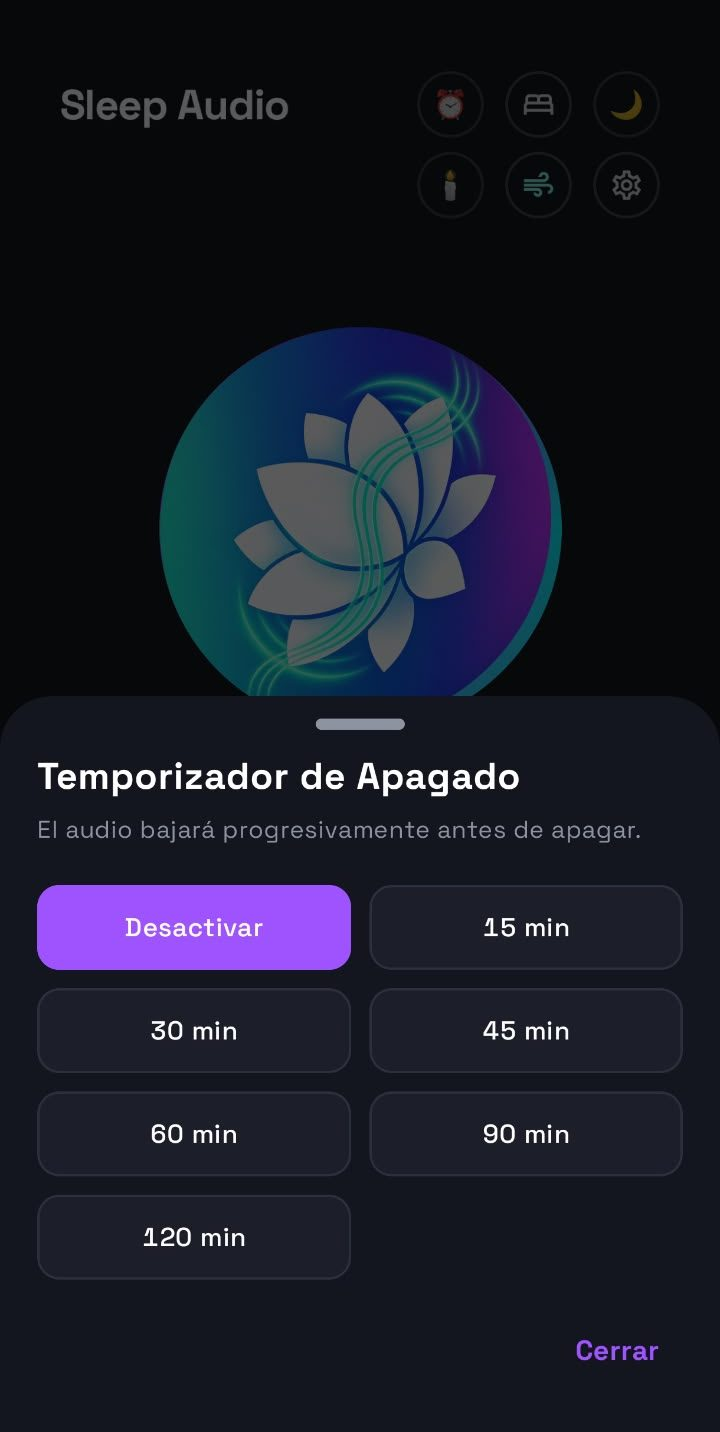
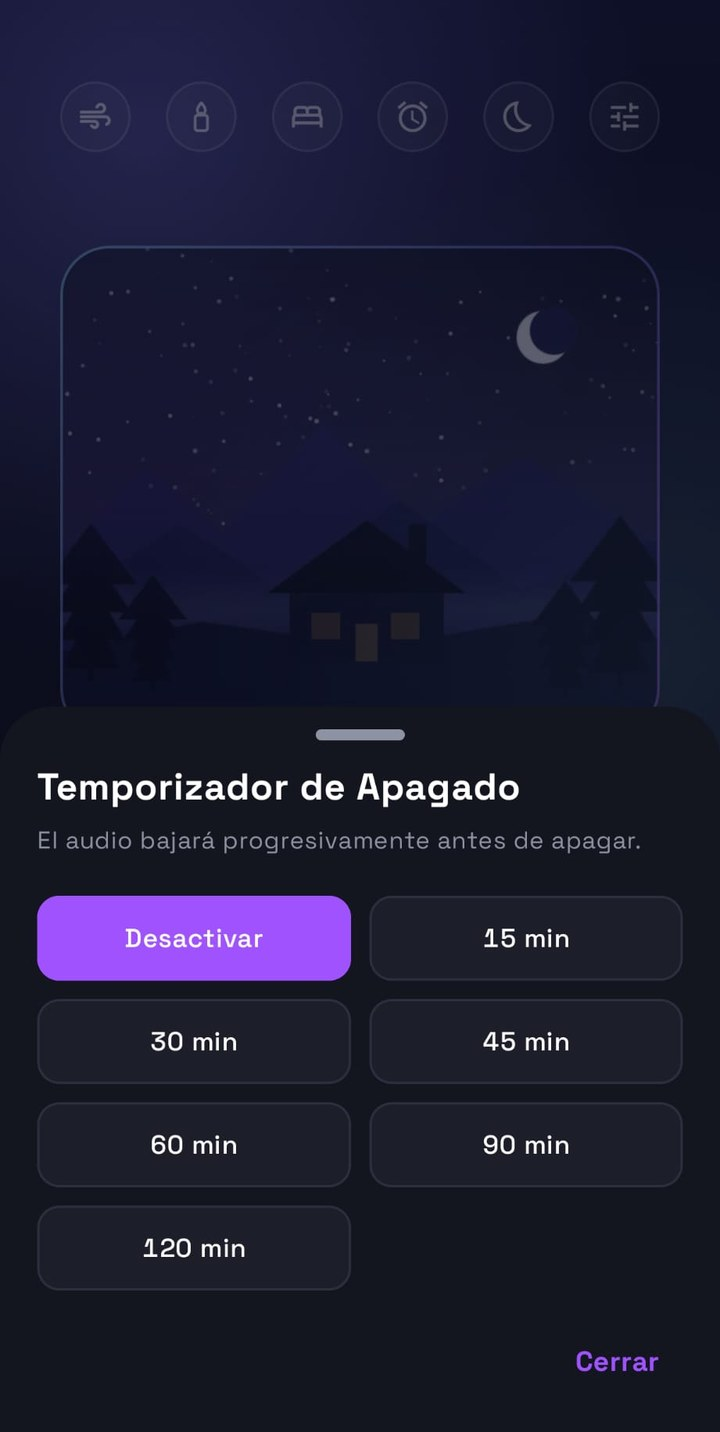
- Reproductor del inicio: la flor de loto se sustituye por la escena animada "Noche en la cabaña" (quieta en pausa, se anima al sonar una muestra) - script.js: nueva sección 15 con la animación (se para fuera de pantalla y con "reducir movimiento") - styles.css: estilos del lienzo de la escena - Gal

diff --git a/script.js b/script.js
@@ -598,4 +598,171 @@
       espera = setTimeout(() => { img.src = original; el.classList.remove("salta"); }, 1400);
     });
   });
+  /* ---------- 15. Reproductor del inicio: escena "Noche en la cabaña" ---------- */
+  // Igual que en la app: en pausa la escena queda quieta; al sonar una muestra cobra vida
+  // (humo, lluvia, luciérnagas y estrellas). Se dibuja en un espacio fijo de 568×464
+  // y se escala para llenar el recuadro sin deformarse.
+  const lienzo = document.querySelector("[data-escena-cabana]");
+  const tarjetaEscena = document.querySelector("[data-reproductor]");
+  if (lienzo && lienzo.getContext) {
+    const x = lienzo.getContext("2d");
+    const W = 568, H = 464, TAU = Math.PI * 2;
+    const reducir = window.matchMedia("(prefers-reduced-motion: reduce)").matches;
+    const azar = Math.random;
+
+    const estrellas = [], lluvia = [], luciernagas = [];
+    let humo = [];
+    for (let i = 0; i < 110; i++) estrellas.push({ x: azar() * W, y: azar() * H * 0.6, r: azar() * 1.8 + 0.4, p: azar() * TAU });
+    for (let i = 0; i < 120; i++) lluvia.push({ x: azar() * W, y: azar() * H, s: 6 + azar() * 6 });
+    for (let i = 0; i < 14; i++) luciernagas.push({ x: azar() * W, y: H * 0.62 + azar() * H * 0.3, p: azar() * TAU });
+
+    const cx = 290, cy = 386;   // posición de la cabaña
+
+    function poligono(puntos, color) {
+      x.fillStyle = color; x.beginPath(); x.moveTo(puntos[0][0], puntos[0][1]);
+      for (let k = 1; k < puntos.length; k++) x.lineTo(puntos[k][0], puntos[k][1]);
+      x.closePath(); x.fill();
+    }
+    function pino(px, py, s, color) {
+      x.fillStyle = color;
+      for (let k = 0; k < 4; k++) {
+        x.beginPath();
+        x.moveTo(px, py - s * (1.2 + k * 0.55));
+        x.lineTo(px - s * (0.55 + k * 0.12), py - s * k * 0.55);
+        x.lineTo(px + s * (0.55 + k * 0.12), py - s * k * 0.55);
+        x.closePath(); x.fill();
+      }
+      x.fillRect(px - s * 0.06, py, s * 0.12, s * 0.25);
+    }
+    function niebla(y, t, alfa) {
+      const g = x.createLinearGradient(0, y, 0, y + 80);
+      g.addColorStop(0, "rgba(180,190,255,0)");
+      g.addColorStop(0.5, "rgba(180,190,255," + alfa + ")");
+      g.addColorStop(1, "rgba(180,190,255,0)");
+      x.fillStyle = g; x.fillRect((t / 60) % 80 - 80, y, W + 160, 80);
+    }
+    function brillo(gx, gy, radio, alfa) {
+      const g = x.createRadialGradient(gx, gy, 2, gx, gy, radio);
+      g.addColorStop(0, "rgba(255,170,70," + alfa + ")");
+      g.addColorStop(1, "rgba(255,170,70,0)");
+      x.fillStyle = g; x.fillRect(gx - radio, gy - radio, radio * 2, radio * 2);
+    }
+    // El humo nace sobre la chimenea, sube, se ensancha y se desvanece
+    function moverHumo() {
+      if (azar() < 0.12) humo.push({ x: cx + 46, y: cy - 126, a: 0.35, r: 5 });
+      humo.forEach((s) => { s.y -= 0.5; s.x += 0.25; s.r += 0.06; s.a -= 0.002; });
+      humo = humo.filter((s) => s.a > 0);
+    }
+    for (let i = 0; i < 260; i++) moverHumo();   // para que en pausa ya se vea la columna de humo
+
+    function dibujar(t, vivo) {
+      const parpadeo = vivo ? 0.82 + 0.18 * Math.sin(t / 130) * Math.sin(t / 77) : 0.9;
+
+      const cielo = x.createLinearGradient(0, 0, 0, H);
+      cielo.addColorStop(0, "#101329"); cielo.addColorStop(0.5, "#292454"); cielo.addColorStop(1, "#5a3b6e");
+      x.fillStyle = cielo; x.fillRect(0, 0, W, H);
+
+      estrellas.forEach((s) => {
+        x.globalAlpha = 0.25 + 0.24 * Math.sin(t / 900 + s.p);
+        x.fillStyle = "#fff"; x.beginPath(); x.arc(s.x, s.y, s.r, 0, TAU); x.fill();
+      });
+      x.globalAlpha = 1;
+
+      // Luna creciente
+      x.fillStyle = "#f3f1ff"; x.beginPath(); x.arc(450, 92, 24, 0, TAU); x.fill();
+      x.fillStyle = "#1d1b4d"; x.beginPath(); x.arc(460, 86, 22, 0, TAU); x.fill();
+
+      // Montañas, niebla y colina
+      poligono([[0,300],[90,210],[160,270],[250,170],[340,260],[430,200],[568,290],[568,464],[0,464]], "#232063");
+      poligono([[0,340],[120,262],[210,318],[320,240],[430,320],[568,270],[568,464],[0,464]], "#1a1a52");
+      niebla(300, t, 0.16);
+      poligono([[0,380],[140,350],[300,372],[460,346],[568,368],[568,464],[0,464]], "#111437");
+
+      // Pinos
+      pino(40, 392, 46, "#0b0d26"); pino(96, 404, 34, "#0c0e29");
+      pino(520, 396, 50, "#0b0d26"); pino(470, 410, 34, "#0c0e29");
+
+      // Cabaña: muros, tejado y chimenea
+      x.fillStyle = "#0f1030"; x.fillRect(cx - 70, cy - 64, 140, 64);
+      poligono([[cx - 90, cy - 62], [cx, cy - 128], [cx + 90, cy - 62]], "#07081c");
+      x.fillStyle = "#0a0b22"; x.fillRect(cx + 38, cy - 124, 16, 34);
+
+      // Ventanas y puerta encendidas (parpadean con el fuego)
+      const alfaVentana = 0.55 + 0.45 * parpadeo;
+      [[cx - 50, cy - 44, 26, 24], [cx + 22, cy - 44, 26, 24]].forEach((v) => {
+        x.fillStyle = "rgba(255,176,80," + alfaVentana + ")"; x.fillRect(v[0], v[1], v[2], v[3]);
+        brillo(v[0] + 13, v[1] + 12, 60, 0.35 * parpadeo);
+      });
+      x.fillStyle = "rgba(255,196,110,.9)";
+      x.fillRect(cx - 10, cy - 34, 20, 34);
+
+      // Humo
+      if (vivo) moverHumo();
+      humo.forEach((s) => {
+        x.fillStyle = "rgba(210,215,255," + Math.max(0, s.a) + ")";
+        x.beginPath(); x.arc(s.x, s.y, s.r, 0, TAU); x.fill();
+      });
+
+      // Luciérnagas
+      luciernagas.forEach((p) => {
+        const a = 0.4 + 0.6 * Math.sin(t / 500 + p.p);
+        x.fillStyle = "rgba(255,236,150," + Math.max(0, a) + ")";
+        x.beginPath();
+        x.arc(p.x + Math.sin(t / 1500 + p.p) * 14, p.y + Math.cos(t / 1900 + p.p) * 8, 2.4, 0, TAU);
+        x.fill();
+      });
+
+      // Lluvia (en pausa, las gotas se quedan quietas)
+      x.strokeStyle = "rgba(170,190,255,.45)"; x.lineWidth = 1.4; x.beginPath();
+      lluvia.forEach((r) => {
+        if (vivo) {
+          r.y += r.s; r.x -= 1.2;
+          if (r.y > H) { r.y = -10; r.x = azar() * W + 40; }
+        }
+        x.moveTo(r.x, r.y); x.lineTo(r.x - 3, r.y + 14);
+      });
+      x.stroke();
+    }
+
+    // Ajusta el lienzo al recuadro (nítido en pantallas de alta densidad) y centra la escena
+    let ultimoT = 0;
+    function ajustar() {
+      const caja = lienzo.getBoundingClientRect();
+      if (!caja.width || !caja.height) return;
+      const dpr = Math.min(window.devicePixelRatio || 1, 2);
+      lienzo.width = Math.round(caja.width * dpr);
+      lienzo.height = Math.round(caja.height * dpr);
+      const escala = Math.max(lienzo.width / W, lienzo.height / H);
+      x.setTransform(escala, 0, 0, escala, (lienzo.width - W * escala) / 2, (lienzo.height - H * escala) / 2);
+      dibujar(ultimoT, false);
+    }
+
+    let enPantalla = true, cuadro = null;
+    const sonando = () => !!(tarjetaEscena && tarjetaEscena.classList.contains("sonando"));
+    function bucle(t) {
+      ultimoT = t;
+      dibujar(t, true);
+      cuadro = requestAnimationFrame(bucle);
+    }
+    function actualizar() {
+      const animar = sonando() && enPantalla && !reducir && !document.hidden;
+      if (animar && cuadro === null) cuadro = requestAnimationFrame(bucle);
+      if (!animar && cuadro !== null) { cancelAnimationFrame(cuadro); cuadro = null; dibujar(ultimoT, false); }
+    }
+
+    ajustar();
+    window.addEventListener("resize", ajustar);
+    if (tarjetaEscena) {
+      new MutationObserver(actualizar).observe(tarjetaEscena, { attributes: true, attributeFilter: ["class"] });
+    }
+    if ("IntersectionObserver" in window) {
+      new IntersectionObserver((entradas) => {
+        enPantalla = entradas[0].isIntersecting;
+        if (enPantalla) ajustar();
+        actualizar();
+      }).observe(lienzo);
+    }
+    document.addEventListener("visibilitychange", actualizar);
+  }
+
 })();

diff --git a/index.html b/index.html
@@ -337,7 +337,7 @@
       <div class="reproductor-zona">
         <div class="reproductor" data-reproductor>
           <div class="reproductor-portada">
-            <img src="./assets/sleepaudio-loto.png" alt="Icono de Sleep Audio" width="512" height="512">
+            <canvas class="escena-cabana" data-escena-cabana role="img" aria-label="Noche en la cabaña: luna, montañas, humo de la chimenea y lluvia"></canvas>
           </div>
           <p class="reproductor-cuenta" data-cuenta>Muestra 1 de 3</p>
           <p class="reproductor-titulo" aria-live="polite">
@@ -436,12 +436,12 @@
       <p class="gris" style="margin-top:12px">Toca una captura para verla en grande.</p>
 
       <div class="tira">
-        <figure class="movil" data-lightbox data-src="./assets/galeria-15-como-te-sientes.jpg" data-titulo="Lucero te pregunta">
-          <div class="marco"><img src="./assets/galeria-15-como-te-sientes.jpg" alt="Lucero pregunta ¿Cómo te sientes hoy?: estresado, no puedo parar de pensar, cansado o bien" width="720" height="1432" loading="lazy" decoding="async"></div>
+        <figure class="movil" data-lightbox data-src="./assets/galeria-15-como-te-sientes.jpg?v=21" data-titulo="Lucero te pregunta">
+          <div class="marco"><img src="./assets/galeria-15-como-te-sientes.jpg?v=21" alt="Lucero pregunta ¿Cómo te sientes hoy?: estresado, no puedo parar de pensar, cansado o bien" width="720" height="1432" loading="lazy" decoding="async"></div>
           <p>Lucero te pregunta</p>
         </figure>
-        <figure class="movil" data-lightbox data-src="./assets/galeria-01-reproductor.jpg" data-titulo="Reproductor">
-          <div class="marco"><img src="./assets/galeria-01-reproductor.jpg" alt="Reproductor de Sleep Audio con la flor de loto" width="720" height="1432" loading="lazy" decoding="async"></div>
+        <figure class="movil" data-lightbox data-src="./assets/galeria-01-reproductor.jpg?v=21" data-titulo="Reproductor">
+          <div class="marco"><img src="./assets/galeria-01-reproductor.jpg?v=21" alt="Reproductor de Sleep Audio con el ambiente Lago en Calma" width="720" height="1432" loading="lazy" decoding="async"></div>
           <p>Reproductor</p>
         </figure>
         <figure class="movil" data-lightbox data-src="./assets/galeria-02-sonidos.jpg" data-titulo="Sonidos">
@@ -464,8 +464,8 @@
           <div class="marco"><img src="./assets/galeria-06-coleccion.jpg" alt="Colección de música por streaming" width="720" height="1432" loading="lazy" decoding="async"></div>
           <p>Colección</p>
         </figure>
-        <figure class="movil" data-lightbox data-src="./assets/galeria-07-temporizador.jpg" data-titulo="Temporizador">
-          <div class="marco"><img src="./assets/galeria-07-temporizador.jpg" alt="Temporizador de apagado de 15 a 120 minutos" width="720" height="1432" loading="lazy" decoding="async"></div>
+        <figure class="movil" data-lightbox data-src="./assets/galeria-07-temporizador.jpg?v=21" data-titulo="Temporizador">
+          <div class="marco"><img src="./assets/galeria-07-temporizador.jpg?v=21" alt="Temporizador de apagado de 15 a 120 minutos" width="720" height="1432" loading="lazy" decoding="async"></div>
           <p>Temporizador</p>
         </figure>
         <figure class="movil" data-lightbox data-src="./assets/galeria-08-despertador.jpg" data-titulo="Despertador">

diff --git a/styles.css b/styles.css
@@ -1502,3 +1502,7 @@ section.cierre p { text-align: center; }
 .r-dialogo-botones .btn { width: 100%; max-width: 280px; justify-content: center; }
 @keyframes r-dialogo-entra { from { opacity: 0; } to { opacity: 1; } }
 @media (prefers-reduced-motion: reduce) { .r-dialogo, .r-dialogo-lucero { animation: none; } }
+
+/* Reproductor del inicio: escena "Noche en la cabaña" */
+.reproductor-portada:has(.escena-cabana) { background: #101329; position: relative; }
+.escena-cabana { position: absolute; inset: 0; width: 100%; height: 100%; display: block; }
